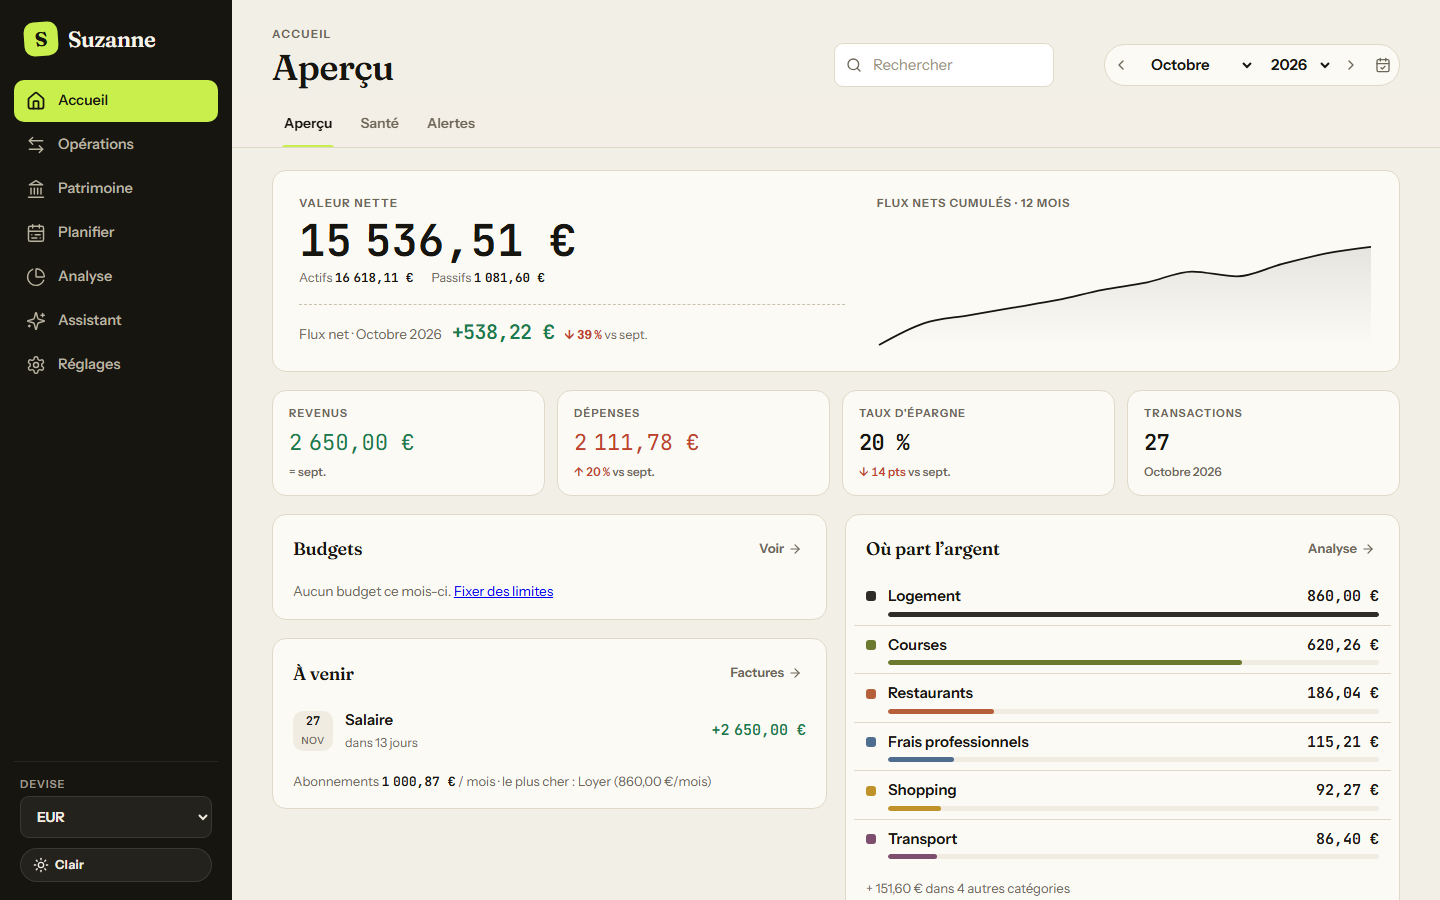
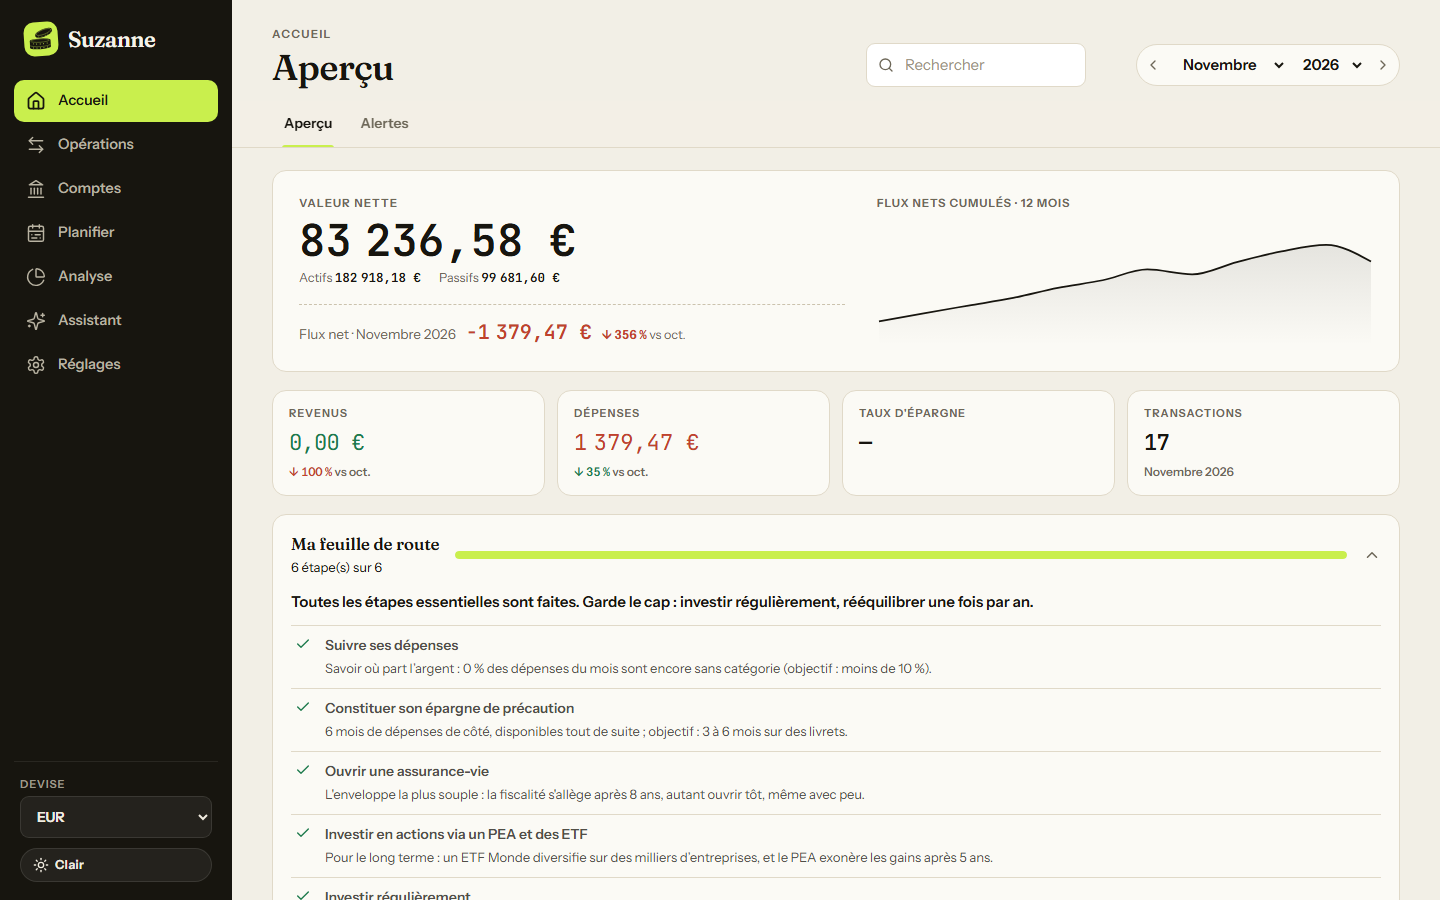
Captures de démo à jour et README des nouvelles fonctionnalités
Données de démo étendues (assurance-vie, bien immobilier et prêt, compte pro,
frais, allocation cible), capture de la Diversification et des Prêts, attente
de fin de chargement dans tools/screenshots.mjs.

diff --git a/README.md b/README.md
@@ -15,7 +15,7 @@ Interface en **français et en anglais**, pensée d'abord pour le mobile.
 > Données entièrement fictives (profil « Démo », générées par `tools/demo-data.mjs`).
 
 ![Accueil](docs/screenshots/dashboard.png)
-<sub>**Accueil** : valeur nette, flux du mois, budget restant, échéances à venir, où part l'argent.</sub>
+<sub>**Accueil** : valeur nette, flux du mois, feuille de route de l'épargnant (étapes cochées d'après tes données), budget restant, échéances à venir.</sub>
 
 <table>
 <tr>
@@ -24,22 +24,26 @@ Interface en **français et en anglais**, pensée d'abord pour le mobile.
 </tr>
 <tr>
 <td width="50%"><img src="docs/screenshots/investments.png" alt="Placements"><br><sub><b>Placements</b> : positions valorisées chaque jour aux cours Yahoo Finance, PRU, plus-values.</sub></td>
-<td width="50%"><img src="docs/screenshots/wealth.png" alt="Patrimoine"><br><sub><b>Patrimoine</b> : évolution de la valeur nette, répartition par compte et par type.</sub></td>
+<td width="50%"><img src="docs/screenshots/wealth.png" alt="Patrimoine"><br><sub><b>Patrimoine</b> : rendement de l'épargne placée (versements neutralisés), évolution de la valeur nette, répartition.</sub></td>
 </tr>
 <tr>
 <td width="50%"><img src="docs/screenshots/statistics.png" alt="Statistiques"><br><sub><b>Statistiques</b> : dépenses par catégorie, top marchands, cashflow et épargne.</sub></td>
-<td width="50%"><img src="docs/screenshots/health.png" alt="Santé financière"><br><sub><b>Santé financière</b> : taux d'épargne, fonds d'urgence, charges fixes et variables.</sub></td>
+<td width="50%"><img src="docs/screenshots/health.png" alt="Santé financière"><br><sub><b>Santé financière</b> : taux d'épargne mois par mois, « se payer en premier », fonds d'urgence, charges fixes.</sub></td>
 </tr>
 <tr>
 <td width="50%"><img src="docs/screenshots/forecast.png" alt="Prévisions"><br><sub><b>Prévisions</b> : trajectoire du solde à partir des récurrents, point bas.</sub></td>
-<td width="50%"><img src="docs/screenshots/simulator.png" alt="Simulateur"><br><sub><b>Simulateur</b> : intérêts composés, plafond et fiscalité du PEA, comparaison de scénarios.</sub></td>
+<td width="50%"><img src="docs/screenshots/simulator.png" alt="Simulateur"><br><sub><b>Simulateur</b> : intérêts composés, fiscalité du PEA, scénarios, projection de son patrimoine réel.</sub></td>
+</tr>
+<tr>
+<td width="50%"><img src="docs/screenshots/diversification.png" alt="Diversification"><br><sub><b>Diversification</b> : pyramide de l'épargne, classes d'actifs, allocation cible et rééquilibrage, diagnostic.</sub></td>
+<td width="50%"><img src="docs/screenshots/accounts.png" alt="Comptes"><br><sub><b>Comptes</b> : livrets, placements, biens (estimation, prêt lié), compte de société à part.</sub></td>
 </tr>
 </table>
 
 <details>
-<summary>Plus de captures (comptes, objectifs, récurrents, factures, à vérifier, catégories, tags, mobile)</summary>
+<summary>Plus de captures (prêts, objectifs, récurrents, factures, à vérifier, catégories, tags, mobile)</summary>
 
-![Comptes](docs/screenshots/accounts.png)
+![Prêts](docs/screenshots/loans.png)
 ![Objectifs](docs/screenshots/goals.png)
 ![Récurrents](docs/screenshots/recurring.png)
 ![Factures](docs/screenshots/bills.png)
@@ -82,13 +86,19 @@ Interface en **français et en anglais**, pensée d'abord pour le mobile.
 - Comptes courants, livrets, PEA, comptes-titres, assurance-vie, crypto, crédits ; institutions, multi-devises (taux de change), archivage.
 - **Soldes par relevés** : le solde saisi d'un relevé fait foi ; le **rapprochement** montre, entre deux relevés, si les opérations expliquent l'écart au centime (opération manquante ou en double) et permet un ajustement explicite.
 - **Imports bancaires** : CSV configurable (profils de banque, export Boursorama reconnu), OFX, QIF. Doublons ignorés même après renommage (empreinte de la ligne de relevé), virements entre tes comptes reliés automatiquement, garde-fou contre une colonne « solde » prise pour un montant.
+- **Synchronisation bancaire DSP2** (optionnelle, via Enable Banking, lecture seule) : connexion depuis Réglages → Données, opérations et soldes récupérés automatiquement, opérations déjà importées reconnues sans doublon ; la fiche d'une opération affiche toutes les données de la banque (libellé complet, référence, contrepartie).
+- **Comptes professionnels** (société) : suivis à part, exclus des dépenses, revenus et du patrimoine personnels ; les apports et rémunérations restent visibles.
+- Chaque type de compte a sa fiche : plafond et versements (PEA, livrets), intérêts, **frais annuels** et leur coût sur 20 ans, enveloppe fiscale (assurance-vie, PER), **biens immobiliers** et objets de valeur estimés, rattachés à leur prêt.
 
 **Planifier**
 - **Budget du mois** et « reste à vivre » par jour, **enveloppes** par catégorie avec report, plafonds suggérés d'après la médiane des 6 derniers mois, **provisions** pour lisser les grosses dépenses annuelles.
 - **Récurrents** (loyer, salaire, abonnements) générés automatiquement, **factures** à fourchette de montant vérifiées chaque mois, **prévisions** du solde, **objectifs** d'épargne.
 
 **Patrimoine et placements**
-- Valeur nette et historique, par compte et par type.
+- Valeur nette et historique, par compte et par type ; **rendement global** du patrimoine (gains hors versements, annualisé).
+- **Diversification** : pyramide par classe d'actifs (liquidités, obligataire, actions, immobilier, alternatif), allocation cible et **rééquilibrage** (où placer le prochain versement).
+- **Feuille de route** sur l'accueil : épargne de précaution, dettes, enveloppes, investissement — l'étape suivante d'abord ; **taux d'épargne** dans la santé financière.
+- **Projection** du patrimoine sur 1 à 50 ans, classe par classe, avec un scénario « + X €/mois en actions ».
 - **Positions et ordres** (8 décimales de quantité) valorisés chaque jour aux cours **Yahoo Finance**, recherche de titres ; achat et vente débitent/créditent les espèces du compte.
 - **PEA** : versements et plafond, performance pondérée par le temps et annualisée (XIRR), comparaison à un indice, fiscalité à la sortie, récapitulatif annuel imprimable ; **simulateur** d'intérêts composés.
 
@@ -97,6 +107,7 @@ Interface en **français et en anglais**, pensée d'abord pour le mobile.
 - **Assistant IA** optionnel (OpenAI ou endpoint compatible, Ollama…) : il lit tes données et propose des actions que tu confirmes.
 - **Sauvegardes** : automatique quotidienne (14 gardées) et manuelle, export JSON complet réimportable sans doublon, export sur mesure, CSV pour tableur.
 - Plusieurs profils, recherche globale, raccourcis clavier, thème clair / sombre, interface responsive.
+- Navigation par question : Accueil (ça va ?), Opérations (que s'est-il passé ?), Comptes (où est mon argent ?), Analyse, Planifier, Réglages (données, profils, préférences).
 
 ## Démarrage rapide
 
